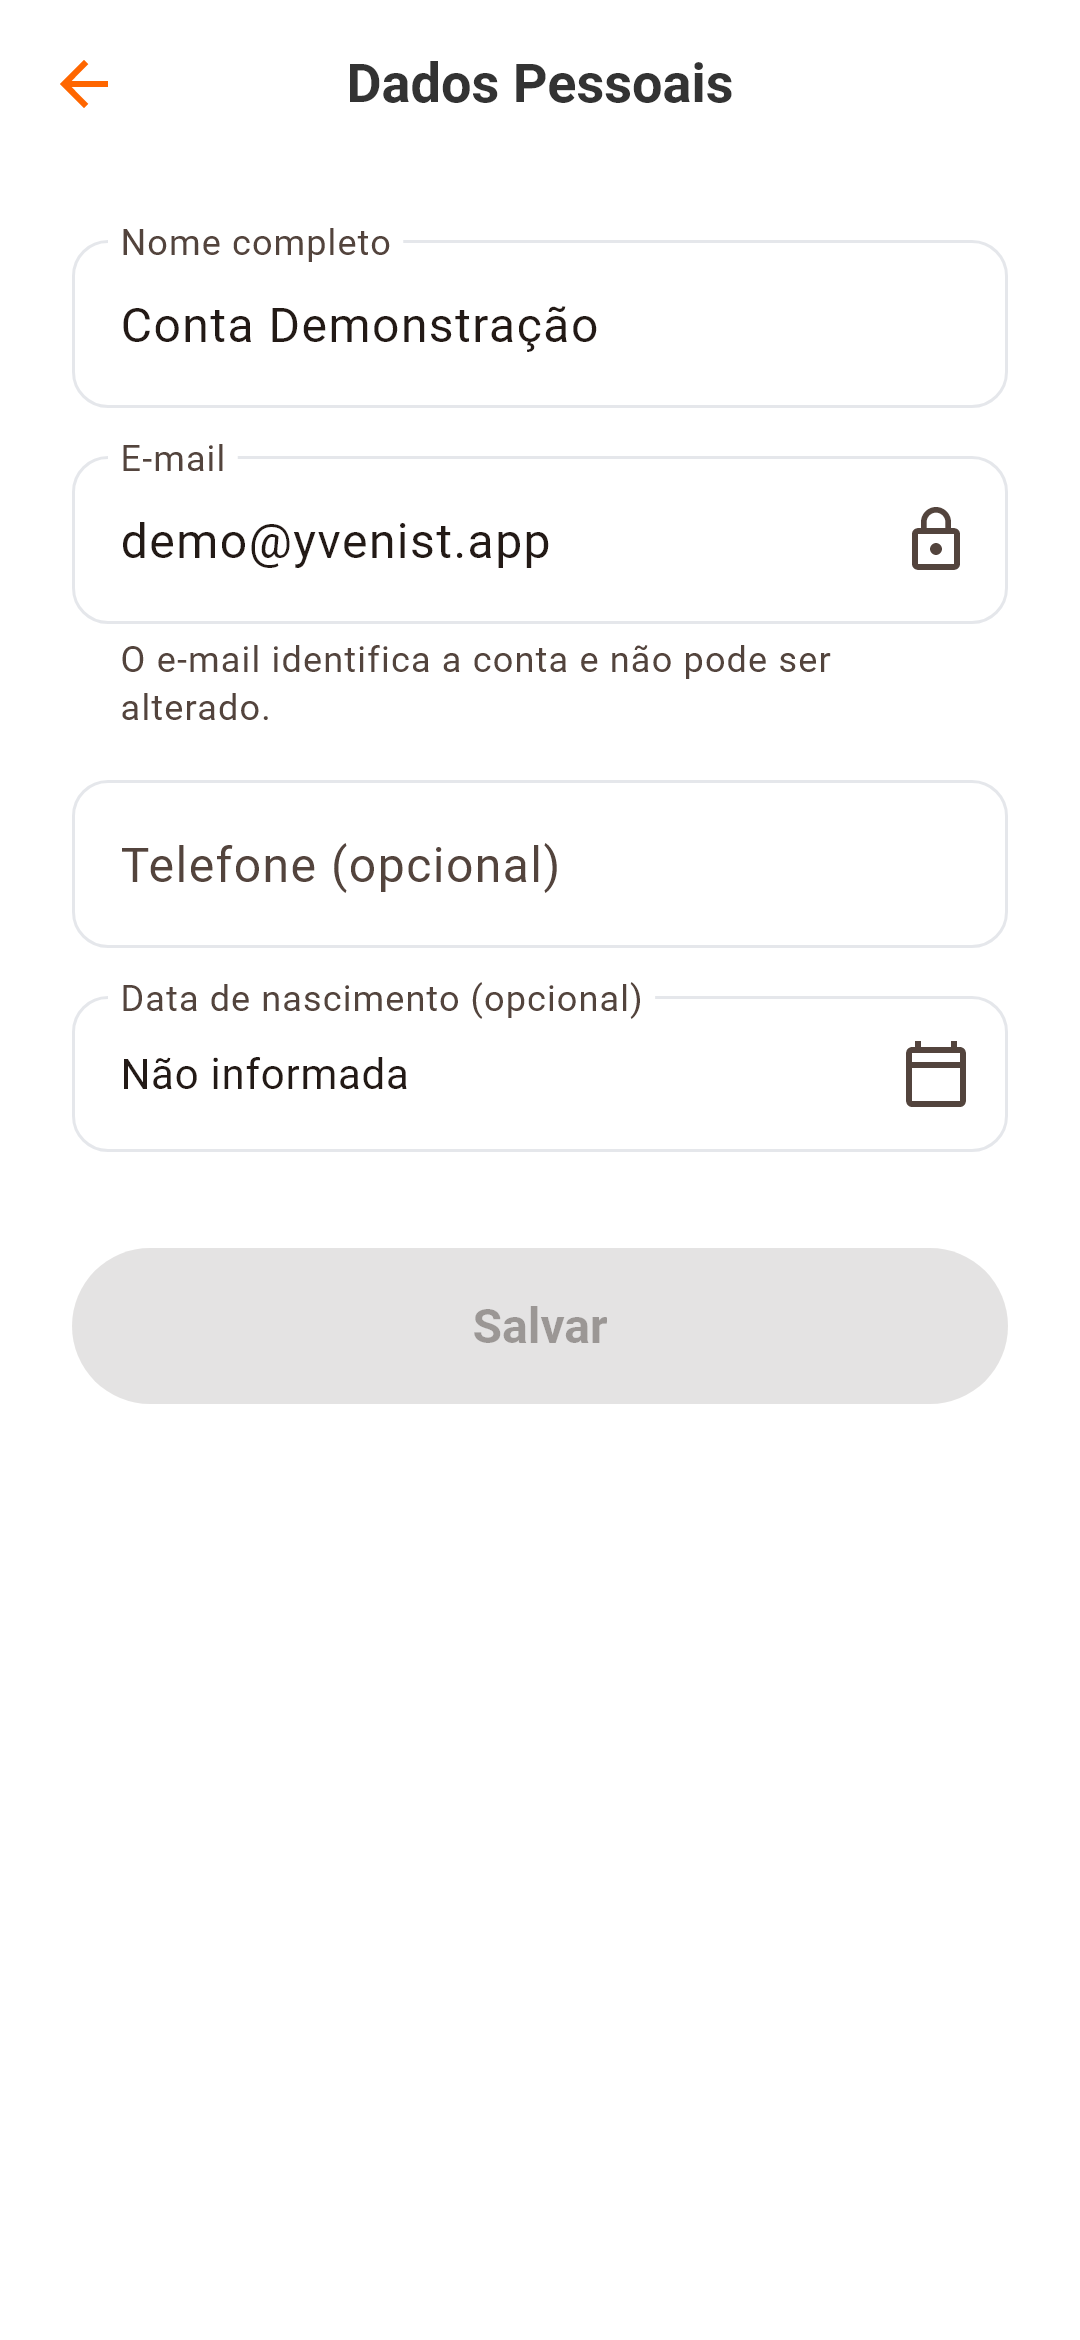
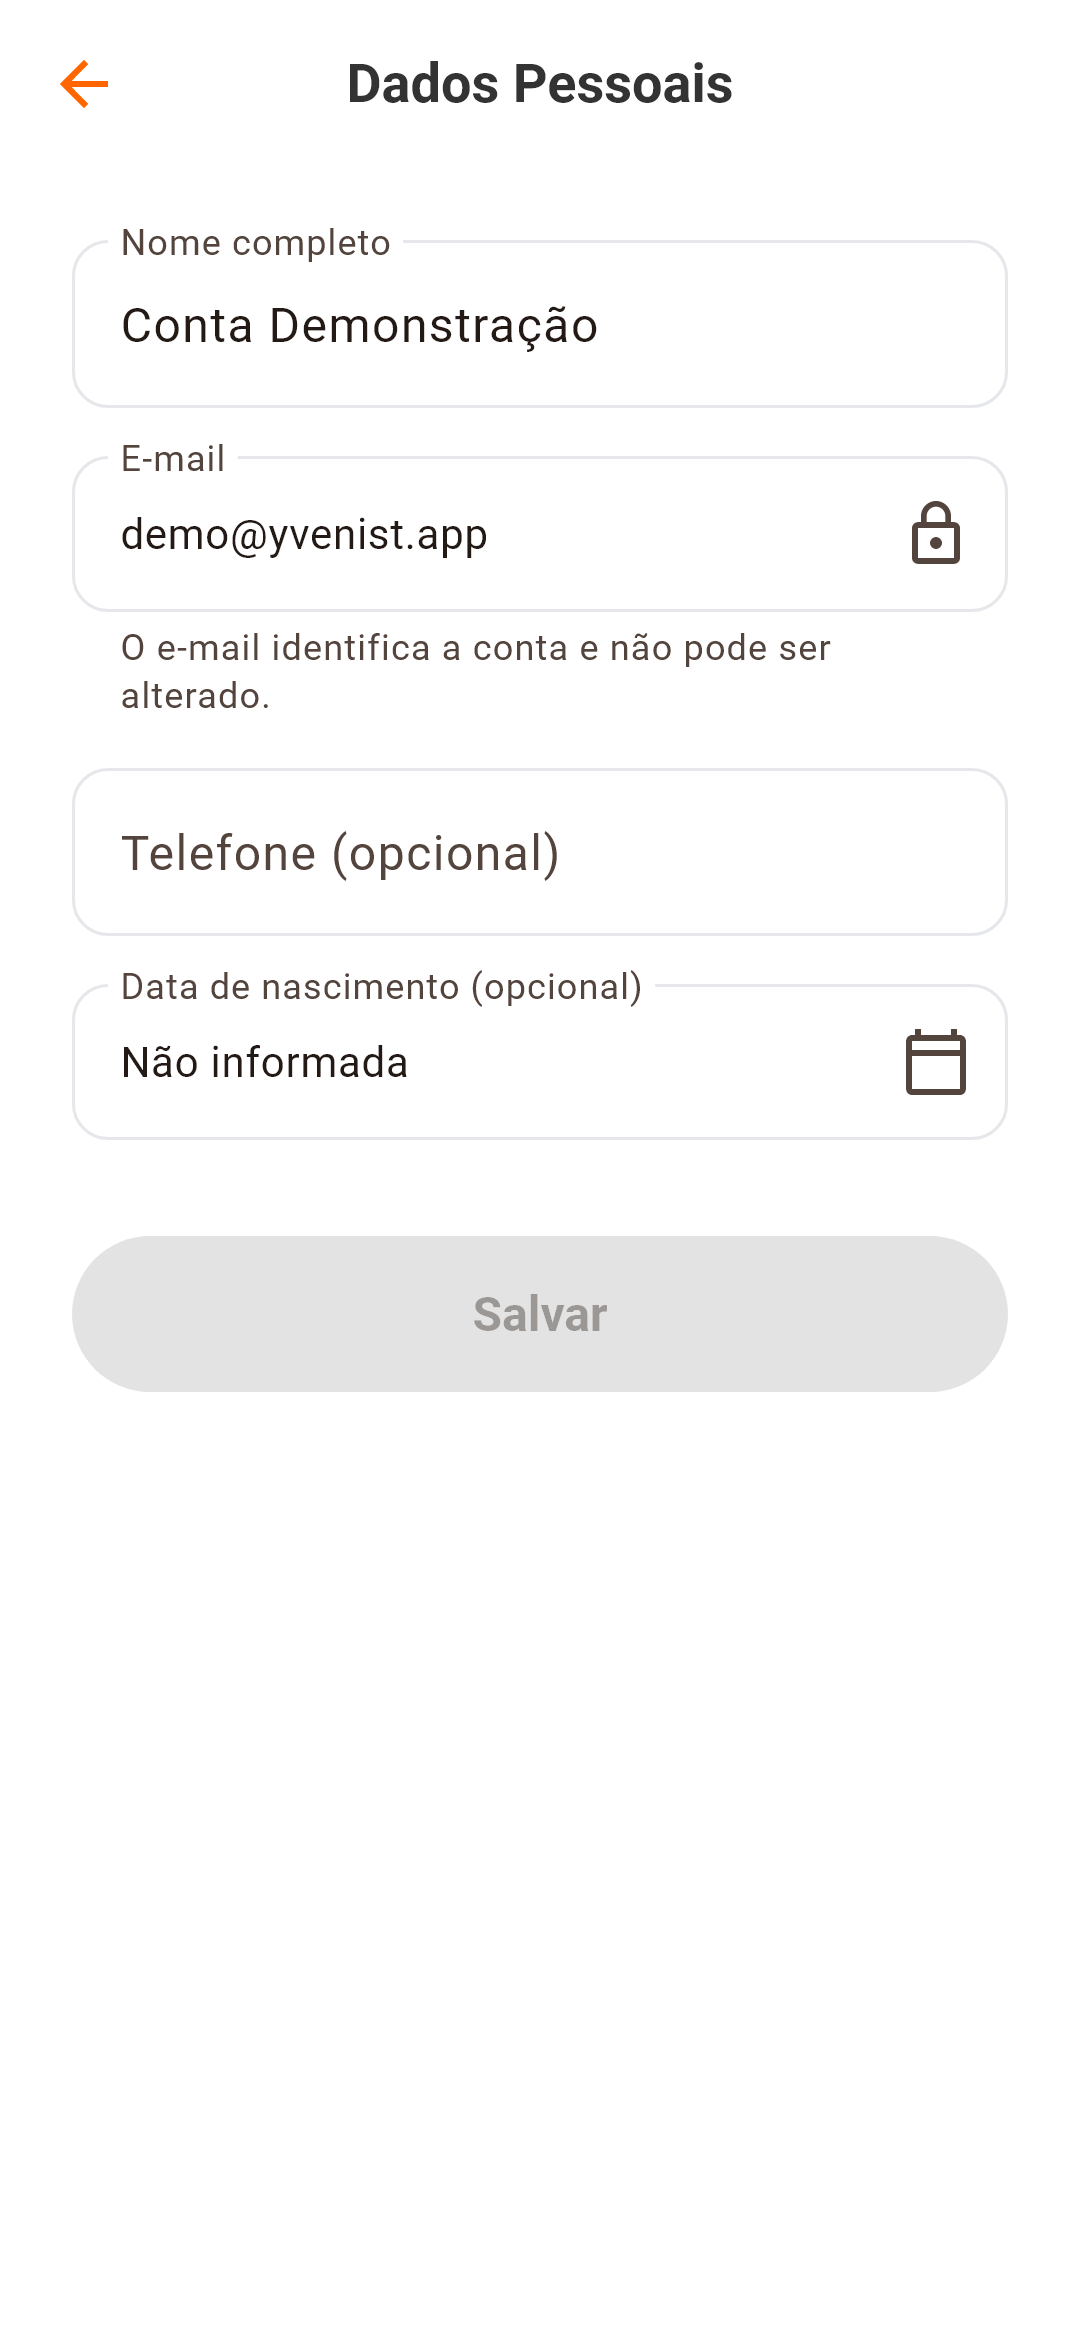
fix(ui): problems seen running the app on an Android device
The debug APK was installed on an emulator (Android 13) and driven
against the local API: sign up, favorite after login, build a party,
request a quote, restart and find the session restored from the
Keystore. That run exposed what widget tests had not:

- Keyboard "next" stopped on the password field's eye button, which
  closed the keyboard before the confirmation field. The button is now
  out of the focus order (still tappable and announced).
- In personal data, "next" from the name landed on the read-only email
  field. The email is now displayed, not an input.
- With the system font at 150% the listing cards truncated the title to
  "Salão Glam…" and clipped the price badge. Cards grow with the font
  (up to 1.4x) and the badge is limited to the card's width.
- The status bar clock and icons were dark over the dark profile header;
  they are light while that header is at the top.
- Dialogs, bottom sheets and menus used Material 3's tinted surfaces and
  came out pink next to the app's white cards; they are white now.

Also verified on the device: release build signed through
key.properties (throwaway key, since deleted) and allowBackup off.

diff --git a/test/app/account_flow_test.dart b/test/app/account_flow_test.dart
@@ -209,6 +209,47 @@ void main() {
   });
 
   group('criar conta', () {
+    appTest('o "próximo" do teclado percorre os campos, um a um', (
+      tester,
+      app,
+    ) async {
+      // Regressão vista em um aparelho: depois da senha, o "próximo" parava
+      // no botão do olho, o teclado fechava e a confirmação ficava por digitar.
+      await openRegister(tester);
+      String typedIn(String label) {
+        return tester
+            .widget<EditableText>(
+              find.descendant(
+                of: find.widgetWithText(TextFormField, label),
+                matching: find.byType(EditableText),
+              ),
+            )
+            .controller
+            .text;
+      }
+
+      await tester.showKeyboard(
+        find.widgetWithText(TextFormField, 'Nome completo'),
+      );
+      for (final text in [
+        'Ana Souza',
+        'ana@example.com',
+        'senha-segura-123',
+        'senha-segura-123',
+      ]) {
+        // Digita no campo que estiver com o foco e pede o próximo.
+        tester.testTextInput.enterText(text);
+        await tester.pump();
+        await tester.testTextInput.receiveAction(TextInputAction.next);
+        await tester.pump();
+      }
+
+      expect(typedIn('Nome completo'), 'Ana Souza');
+      expect(typedIn('E-mail'), 'ana@example.com');
+      expect(typedIn('Senha'), 'senha-segura-123');
+      expect(typedIn('Repita a senha'), 'senha-segura-123');
+    }, signedIn: false);
+
     appTest('valida todos os campos e o aceite dos termos', (
       tester,
       app,
@@ -314,6 +355,32 @@ void main() {
       expect(find.text('Dados salvos.'), findsOneWidget);
       expect(find.text('Maria Clara Souza'), findsOneWidget);
       expect(app.state.session.user!.phone, '21999998888');
+    });
+
+    appTest('o e-mail aparece, mas não é editável nem prende o teclado', (
+      tester,
+      app,
+    ) async {
+      await openTab(tester, 'Perfil');
+      await tapAndSettle(tester, find.text('Dados Pessoais'));
+      expect(find.text(InMemoryAuthRepository.demoEmail), findsOneWidget);
+
+      // Do nome, o "próximo" vai direto para o telefone.
+      await tester.showKeyboard(
+        find.widgetWithText(TextFormField, 'Nome completo'),
+      );
+      await tester.testTextInput.receiveAction(TextInputAction.next);
+      await tester.pump();
+      tester.testTextInput.enterText('21999998888');
+      await tester.pump();
+
+      final phone = tester.widget<EditableText>(
+        find.descendant(
+          of: find.widgetWithText(TextFormField, 'Telefone (opcional)'),
+          matching: find.byType(EditableText),
+        ),
+      );
+      expect(phone.controller.text, '21999998888');
     });
 
     appTest('telefone sem DDD é recusado', (tester, app) async {

diff --git a/lib/core/theme/app_theme.dart b/lib/core/theme/app_theme.dart
@@ -13,6 +13,17 @@ abstract final class AppTheme {
     systemNavigationBarIconBrightness: Brightness.dark,
   );
 
+  /// Para telas cujo topo é escuro (o cabeçalho do perfil): relógio e ícones
+  /// da barra de status em branco.
+  static const SystemUiOverlayStyle systemUiOnDarkHeader = SystemUiOverlayStyle(
+    statusBarColor: Colors.transparent,
+    statusBarIconBrightness: Brightness.light, // Android
+    statusBarBrightness: Brightness.dark, // iOS
+    systemNavigationBarColor: Colors.white,
+    systemNavigationBarDividerColor: Colors.transparent,
+    systemNavigationBarIconBrightness: Brightness.dark,
+  );
+
   static ThemeData light() {
     final scheme = ColorScheme.fromSeed(seedColor: AppColors.primary);
     final fieldBorder = OutlineInputBorder(
@@ -81,6 +92,25 @@ abstract final class AppTheme {
       ),
       snackBarTheme: const SnackBarThemeData(
         behavior: SnackBarBehavior.floating,
+      ),
+      // Diálogos, folhas e menus em branco, como os cards: o padrão do
+      // Material 3 tinge essas superfícies com a cor da marca e elas saíam
+      // rosadas, destoando do resto do app.
+      dialogTheme: const DialogThemeData(
+        backgroundColor: Colors.white,
+        surfaceTintColor: Colors.transparent,
+        titleTextStyle: AppTypography.sectionTitle,
+        contentTextStyle: AppTypography.body,
+      ),
+      bottomSheetTheme: BottomSheetThemeData(
+        backgroundColor: Colors.white,
+        modalBackgroundColor: Colors.white,
+        surfaceTintColor: Colors.transparent,
+        dragHandleColor: Colors.grey.shade400,
+      ),
+      popupMenuTheme: const PopupMenuThemeData(
+        color: Colors.white,
+        surfaceTintColor: Colors.transparent,
       ),
       progressIndicatorTheme: const ProgressIndicatorThemeData(
         color: AppColors.primary,

diff --git a/lib/features/client/profile/presentation/pages/profile_page.dart b/lib/features/client/profile/presentation/pages/profile_page.dart
@@ -1,8 +1,10 @@
 import 'package:flutter/material.dart';
+import 'package:flutter/services.dart';
 import 'package:provider/provider.dart';
 import 'package:yvenist/core/config/app_config.dart';
 import 'package:yvenist/core/navigation/app_tab_controller.dart';
 import 'package:yvenist/core/theme/app_colors.dart';
+import 'package:yvenist/core/theme/app_theme.dart';
 import 'package:yvenist/core/theme/app_typography.dart';
 import 'package:yvenist/core/widgets/status_views.dart';
 import 'package:yvenist/features/auth/domain/entities/app_user.dart';
@@ -97,11 +99,17 @@ class _ProfilePageState extends State<ProfilePage> {
         physics: const BouncingScrollPhysics(),
         child: Column(
           children: [
-            _Header(
-              user: user,
-              vendorMode: vendorMode,
-              onClientMode: () => setState(() => _vendorMode = false),
-              onVendorMode: _selectVendorMode,
+            // Enquanto o cabeçalho escuro está no topo, o relógio e os ícones
+            // da barra de status ficam brancos; rolando a tela, voltam a ser
+            // escuros sobre o fundo claro.
+            AnnotatedRegion<SystemUiOverlayStyle>(
+              value: AppTheme.systemUiOnDarkHeader,
+              child: _Header(
+                user: user,
+                vendorMode: vendorMode,
+                onClientMode: () => setState(() => _vendorMode = false),
+                onVendorMode: _selectVendorMode,
+              ),
             ),
             const SizedBox(height: 22),
             Padding(

diff --git a/test/app/accessibility_test.dart b/test/app/accessibility_test.dart
@@ -1,6 +1,8 @@
 import 'package:flutter/material.dart';
+import 'package:flutter/rendering.dart';
 import 'package:flutter_test/flutter_test.dart';
 import 'package:yvenist/features/auth/data/in_memory_auth_repository.dart';
+import 'package:yvenist/features/client/shared/listing_card.dart';
 
 import '../support/app_harness.dart';
 import '../support/visual_harness.dart';
@@ -264,6 +266,28 @@ void main() {
       await tapAndSettle(tester, filledButton('Solicitar orçamento'));
       expect(find.text('Orçamento solicitado'), findsOneWidget);
     }, textScale: scale);
+
+    appTest('com letras 50% maiores o card mostra nome e preço inteiros', (
+      tester,
+      app,
+    ) async {
+      // Visto em um aparelho: o card tinha largura fixa, o nome virava
+      // "Salão Glam…" e o selo de preço era cortado pela borda.
+      final title = tester.renderObject<RenderParagraph>(
+        find.text('Salão Glamour 8'),
+      );
+      expect(title.didExceedMaxLines, isFalse);
+
+      final card = tester.getRect(
+        find.ancestor(
+          of: find.text('Salão Glamour 8'),
+          matching: find.byType(ListingCard),
+        ),
+      );
+      final badge = tester.getRect(find.text('A partir de R\$ 1.700'));
+      expect(badge.left, greaterThanOrEqualTo(card.left));
+      expect(badge.right, lessThanOrEqualTo(card.right));
+    }, textScale: 1.5);
 
     appTest('busca e favoritos', (tester, app) async {
       await tapAndSettle(

diff --git a/lib/features/client/home/presentation/widgets/horizontal_card_list.dart b/lib/features/client/home/presentation/widgets/horizontal_card_list.dart
@@ -11,10 +11,12 @@ class HorizontalCardList extends StatelessWidget {
 
   @override
   Widget build(BuildContext context) {
-    // A altura acompanha o tamanho de fonte escolhido no sistema: com letras
-    // maiores os cards crescem, em vez de cortar o texto.
+    // Os cards acompanham o tamanho de fonte escolhido no sistema: com letras
+    // maiores eles crescem (na altura e, até certo ponto, na largura), em vez
+    // de cortar o nome e o bairro do anúncio.
     final textScale = MediaQuery.textScalerOf(context).scale(16) / 16;
     final height = ListingCard.imageHeight + 40 + 58 * textScale;
+    final cardWidth = ListingCard.cardWidth * textScale.clamp(1.0, 1.4);
 
     return SizedBox(
       height: height,
@@ -31,7 +33,8 @@ class HorizontalCardList extends StatelessWidget {
         itemCount: listings.length,
         separatorBuilder: (_, _) =>
             const SizedBox(width: AppSpacing.cardSpacing),
-        itemBuilder: (_, index) => ListingCard(listing: listings[index]),
+        itemBuilder: (_, index) =>
+            ListingCard(listing: listings[index], width: cardWidth),
       ),
     );
   }

diff --git a/lib/core/widgets/form_widgets.dart b/lib/core/widgets/form_widgets.dart
@@ -110,6 +110,17 @@ class PasswordField extends StatefulWidget {
 class _PasswordFieldState extends State<PasswordField> {
   bool _obscured = true;
 
+  // Fora da sequência de foco: o "próximo" do teclado tem de ir para o campo
+  // seguinte. Parando no botão do olho, o teclado fechava no meio do
+  // formulário. O botão continua respondendo ao toque e a leitores de tela.
+  final FocusNode _toggleFocus = FocusNode(skipTraversal: true);
+
+  @override
+  void dispose() {
+    _toggleFocus.dispose();
+    super.dispose();
+  }
+
   @override
   Widget build(BuildContext context) {
     return TextFormField(
@@ -129,6 +140,7 @@ class _PasswordFieldState extends State<PasswordField> {
         labelText: widget.label,
         helperText: widget.helperText,
         suffixIcon: IconButton(
+          focusNode: _toggleFocus,
           icon: Icon(_obscured ? Icons.visibility : Icons.visibility_off),
           tooltip: _obscured ? 'Mostrar senha' : 'Ocultar senha',
           onPressed: () => setState(() => _obscured = !_obscured),

diff --git a/lib/features/client/profile/presentation/pages/personal_data_page.dart b/lib/features/client/profile/presentation/pages/personal_data_page.dart
@@ -145,10 +145,9 @@ class _PersonalDataPageState extends State<PersonalDataPage> {
                     ),
                   ),
                   const SizedBox(height: 16),
-                  TextFormField(
-                    initialValue: user.email,
-                    readOnly: true,
-                    enableInteractiveSelection: false,
+                  // Só exibe: não é um campo de texto, para o "próximo" do
+                  // teclado ir do nome direto para o telefone.
+                  InputDecorator(
                     decoration: const InputDecoration(
                       labelText: 'E-mail',
                       helperText:
@@ -157,6 +156,7 @@ class _PersonalDataPageState extends State<PersonalDataPage> {
                       helperMaxLines: 2,
                       suffixIcon: Icon(Icons.lock_outline),
                     ),
+                    child: Text(user.email),
                   ),
                   const SizedBox(height: 16),
                   TextFormField(

diff --git a/lib/features/client/shared/listing_card.dart b/lib/features/client/shared/listing_card.dart
@@ -58,10 +58,19 @@ class ListingCard extends StatelessWidget {
                 width: width,
                 height: imageHeight,
               ),
+              // Limitado à largura do card: com letras grandes o selo encolhe
+              // para caber, em vez de ter o preço cortado pela borda.
               Positioned(
                 left: 8,
+                right: 8,
                 bottom: 8,
-                child: ExcludeSemantics(child: PriceBadge(listing: listing)),
+                child: ExcludeSemantics(
+                  child: FittedBox(
+                    fit: BoxFit.scaleDown,
+                    alignment: Alignment.centerLeft,
+                    child: PriceBadge(listing: listing),
+                  ),
+                ),
               ),
               Positioned(
                 top: 0,
